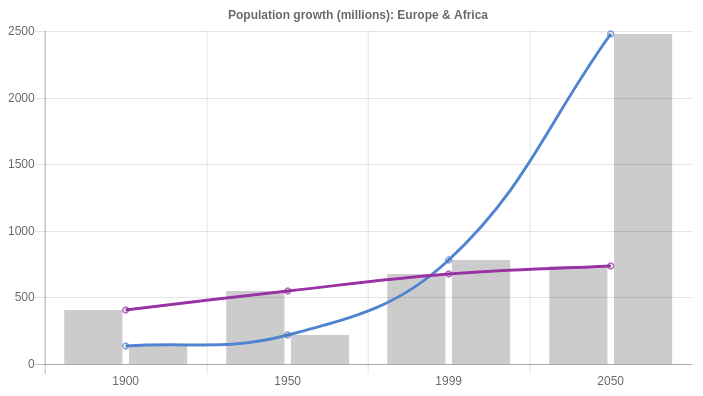
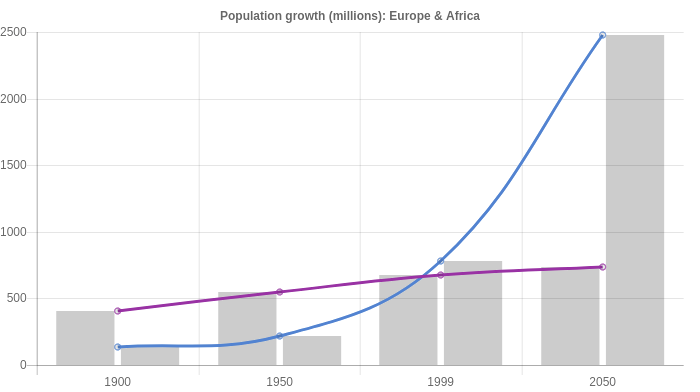
edit mixed charts sample in readme

diff --git a/README.md b/README.md
@@ -377,6 +377,66 @@ export default class App extends Component {
 }
 ```
 
+### Mixed charts
+
+![Mixed charts](https://github.com/codefacebook/react-chartjsx/blob/master/images/mixed-chart.png)
+
+```
+import { Bar } from 'react-chartjsx'
+
+export default class App extends Component {
+  state = {
+    mixedChartsData: {
+      labels: ["1900", "1950", "1999", "2050"],
+      datasets: [{
+          label: "Europe",
+          type: "line",
+          borderColor: "#8e5ea2",
+          data: [408,547,675,734],
+          fill: false
+        }, {
+          label: "Africa",
+          type: "line",
+          borderColor: "#3e95cd",
+          data: [133,221,783,2478],
+          fill: false
+        }, {
+          label: "Europe",
+          type: "bar",
+          backgroundColor: "rgba(0,0,0,0.2)",
+          data: [408,547,675,734],
+        }, {
+          label: "Africa",
+          type: "bar",
+          backgroundColor: "rgba(0,0,0,0.2)",
+          backgroundColorHover: "#3e95cd",
+          data: [133,221,783,2478]
+        }
+      ]
+    }
+  }
+
+  constructor(props) {
+    super(props)
+  }
+
+  render() {
+    const chartOptions = {
+      responsive: false
+    }
+
+    return (
+      <div>
+        <Bar data={this.state.mixedChartsData} 
+             options={chartOptions} 
+             width={800} 
+             height={400} />
+      </div>
+    )
+  }
+}
+```
+
 ## Contributing
 
 We'd love to have your helping hand on contributions to react-chartjsx by forking and sending a pull request!
